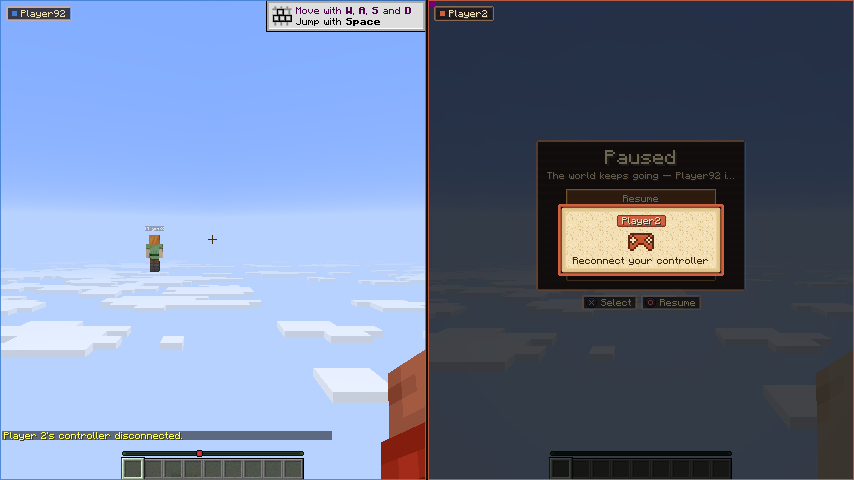
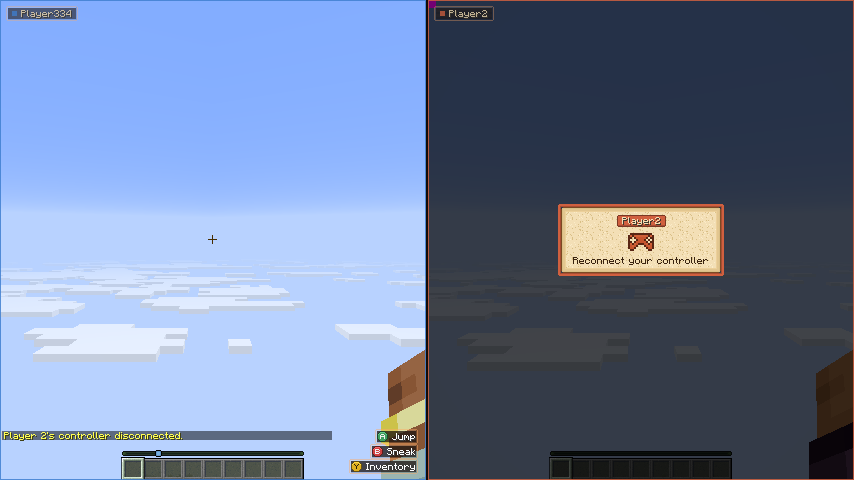
fix: reconnect card and wrapping pause status

diff --git a/fabric/src/client/java/dev/hearthside/fabric/client/menu/PauseMenuScreen.java b/fabric/src/client/java/dev/hearthside/fabric/client/menu/PauseMenuScreen.java
@@ -25,6 +25,7 @@ import net.minecraft.client.gui.screens.options.OptionsScreen;
 import net.minecraft.client.multiplayer.ClientLevel;
 import net.minecraft.network.chat.CommonComponents;
 import net.minecraft.network.chat.Component;
+import net.minecraft.util.FormattedCharSequence;
 
 /**
  * Each player's own pause menu during split-screen (Spec E section 3.1), in their own game: Ember glass over their view
@@ -44,8 +45,16 @@ public final class PauseMenuScreen extends Screen implements PadScreen {
 	private static final int HUD = 30;
 	/** A guest's focus outline: the ember accent (their game doesn't know their profile's colour). */
 	private static final int EMBER = 0xFFB35A;
+	/** The status line's line height: up to three names (16 characters each) wrap onto more lines, never cut. */
+	private static final int STATUS_LINE = 10;
+	private static final boolean E2E = "1".equals(System.getenv("HEARTHSIDE_E2E_PATTERN"));
 	/** What every pause menu in this game says under "Paused": who is still playing, or that the world is frozen. */
 	private static volatile String status = "";
+	/**
+	 * A guest's controller is away (between the host's PAUSE and RESUME): the menu draws only its dim, so the reconnect
+	 * card player 1's game draws over this view is the only thing asking anything (Spec E section 3.3). Render thread.
+	 */
+	private static boolean controllerAway;
 	/** Vanilla's pause screen opened by Game menu…, and the menu that closing it to play goes back to. Render thread. */
 	private static WeakReference<PauseScreen> gameMenu = new WeakReference<>(null);
 	private static WeakReference<PauseMenuScreen> gameMenuFrom = new WeakReference<>(null);
@@ -61,6 +70,11 @@ public final class PauseMenuScreen extends Screen implements PadScreen {
 	private int lastButtons = -1;
 	private int panelX, panelY, panelW, panelH, statusY;
 	private boolean bigHeading;
+	/** The status line as laid out (wrapped to the panel), and the status it was laid out for. Render thread. */
+	private List<String> statusLines = List.of();
+	private String laidOutFor = "";
+	/** The view was too small for every line of the status: its last line is cut short. */
+	private boolean statusTruncated;
 	private PadHints hints;
 	/** A controller's A is pressing an entry right now (not the mouse or the PC keyboard). */
 	private boolean padPressing;
@@ -97,6 +111,15 @@ public final class PauseMenuScreen extends Screen implements PadScreen {
 	/** The status line under "Paused" for every pause menu in this game, the open one and later ones ("" for none). */
 	public static void setStatus(String line) {
 		status = line == null ? "" : line;
+	}
+
+	/**
+	 * A guest's controller went away (the host's PAUSE) or came back or was taken over (its RESUME): while away, any
+	 * pause menu in this game shows only its dim, and a menu still open when it comes back shows again as it was.
+	 * Render thread.
+	 */
+	public static void setControllerAway(boolean away) {
+		controllerAway = away;
 	}
 
 	/**
@@ -151,34 +174,86 @@ public final class PauseMenuScreen extends Screen implements PadScreen {
 		nav = new MenuNav();
 		lastButtons = -1;
 		buttons.clear();
-		// The panel with its hints under it, centred above the hotbar (which stays visible through the dim).
-		int room = height - HUD - 2 * MARGIN;
-		bigHeading = blockHeight(true, GAP) <= room;
-		int gap = bigHeading || blockHeight(false, GAP) <= room ? GAP : 2;
-		int heading = bigHeading ? 18 : 9;
-		int column = entries.size() * BUTTON_H + (entries.size() - 1) * gap;
-		panelW = Math.min(BUTTON_W + 2 * PAD + 40, width - 2 * MARGIN);
-		panelH = PAD + heading + 4 + 9 + 8 + column + PAD;
-		panelX = (width - panelW) / 2;
-		panelY = Math.max(MARGIN, MARGIN + (room - blockHeight(bigHeading, gap)) / 2);
-		statusY = panelY + PAD + heading + 4;
-		int buttonW = Math.min(BUTTON_W, panelW - 2 * PAD);
-		int y = statusY + 9 + 8;
 		for (Entry entry : entries) {
-			GlassButton button = new GlassButton((width - buttonW) / 2, y, buttonW, BUTTON_H, entry.label(), b -> choose(entry));
+			GlassButton button = new GlassButton(0, 0, BUTTON_W, BUTTON_H, entry.label(), b -> choose(entry));
 			button.active = entry.active();
 			buttons.add(addRenderableWidget(button));
-			y += BUTTON_H + gap;
 		}
 		// Its own hints: Minecraft's screens get ButtonGuideRenderer's, Hearthside's draw their own.
 		hints = new PadHints(this, RESUME, this::resume);
-		hints.addTo(this::addRenderableWidget, width / 2, panelY + panelH + HINT_GAP);
+		hints.addTo(this::addRenderableWidget, width / 2, 0);
+		layout();
 	}
 
-	/** The panel and its hints, with the heading at twice the font's size or its own, and this gap between buttons. */
-	private int blockHeight(boolean big, int gap) {
+	/**
+	 * Lays the panel out for the status line it shows now, wrapped to the panel in as many lines as it needs (one is
+	 * always kept for it): the panel with its hints under it, centred above the hotbar (which stays visible through the
+	 * dim). Run again whenever the status line changes, moving the buttons and hints without touching the focus. Only a
+	 * view too small for every line cuts the last one short.
+	 */
+	private void layout() {
+		laidOutFor = status;
+		panelW = Math.min(BUTTON_W + 2 * PAD + 40, width - 2 * MARGIN);
+		int room = height - HUD - 2 * MARGIN;
+		List<String> lines = new ArrayList<>();
+		if (!status.isEmpty()) {
+			for (FormattedCharSequence line : font.split(Component.literal(status), panelW - 2 * PAD)) {
+				StringBuilder text = new StringBuilder();
+				line.accept((index, style, codePoint) -> {
+					text.appendCodePoint(codePoint);
+					return true;
+				});
+				lines.add(text.toString());
+			}
+		}
+		int fit = Math.max(1, (room - blockHeight(false, 2, 0)) / STATUS_LINE);
+		statusTruncated = lines.size() > fit;
+		if (statusTruncated) {
+			lines = new ArrayList<>(lines.subList(0, fit));
+			String last = lines.getLast();
+			lines.set(fit - 1, font.plainSubstrByWidth(last, panelW - 2 * PAD - font.width("…")) + "…");
+		}
+		statusLines = List.copyOf(lines);
+		int n = Math.max(1, lines.size());
+		bigHeading = blockHeight(true, GAP, n) <= room;
+		int gap = bigHeading || blockHeight(false, GAP, n) <= room ? GAP : 2;
+		int heading = bigHeading ? 18 : 9;
 		int column = entries.size() * BUTTON_H + (entries.size() - 1) * gap;
-		return PAD + (big ? 18 : 9) + 4 + 9 + 8 + column + PAD + HINT_GAP + HintChip.HEIGHT;
+		panelH = PAD + heading + 4 + statusHeight(n) + 8 + column + PAD;
+		panelX = (width - panelW) / 2;
+		panelY = Math.max(MARGIN, MARGIN + (room - blockHeight(bigHeading, gap, n)) / 2);
+		statusY = panelY + PAD + heading + 4;
+		int buttonW = Math.min(BUTTON_W, panelW - 2 * PAD);
+		int y = statusY + statusHeight(n) + 8;
+		for (GlassButton button : buttons) {
+			button.setRectangle(buttonW, BUTTON_H, (width - buttonW) / 2, y);
+			y += BUTTON_H + gap;
+		}
+		hints.place(width / 2, panelY + panelH + HINT_GAP);
+		if (E2E) {
+			HearthsideMod.LOGGER.info("Hearthside pause status lines={} truncated={} drawn={}", statusLines.size(),
+					statusTruncated, String.join("|", statusLines));
+		}
+	}
+
+	/** The status line's height in {@code lines} lines (one line still takes a line's room when it's empty). */
+	private static int statusHeight(int lines) {
+		return Math.max(1, lines) * STATUS_LINE - 1;
+	}
+
+	/**
+	 * The panel and its hints, with the heading at twice the font's size or its own, this gap between buttons and the
+	 * status in this many lines.
+	 */
+	private int blockHeight(boolean big, int gap, int statusLines) {
+		int column = entries.size() * BUTTON_H + (entries.size() - 1) * gap;
+		int status = statusLines == 0 ? -1 : statusHeight(statusLines);
+		return PAD + (big ? 18 : 9) + 4 + status + 8 + column + PAD + HINT_GAP + HintChip.HEIGHT;
+	}
+
+	/** E2E: the open pause menu's status line as drawn, line by line, or null when none is open. Render thread. */
+	public static List<String> e2eDrawnStatus(Minecraft minecraft) {
+		return minecraft.gui.screen() instanceof PauseMenuScreen menu ? menu.statusLines : null;
 	}
 
 	/** Resume, whenever the menu opens or comes back (plan P-2): the D-pad always starts from the top. */
@@ -275,6 +350,12 @@ public final class PauseMenuScreen extends Screen implements PadScreen {
 	public void extractBackground(GuiGraphicsExtractor g, int mouseX, int mouseY, float partialTick) {
 		// The world stays visible through the glass, a little dimmed.
 		g.fill(0, 0, width, height, 0x60000000);
+		if (controllerAway) {
+			return; // only the reconnect card over this view asks anything now
+		}
+		if (!status.equals(laidOutFor)) {
+			layout(); // the host's word changed while the menu was open: the panel fits the new line
+		}
 		// Backed, as the on-screen keyboard is, so the buttons stay readable over a bright world (and the crosshair stays
 		// out of the panel).
 		g.fill(panelX + 2, panelY + 2, panelX + panelW - 2, panelY + panelH - 2, 0xD8201410);
@@ -285,18 +366,18 @@ public final class PauseMenuScreen extends Screen implements PadScreen {
 		} else {
 			HearthDraw.labelCentred(g, font, title, width / 2, headingY, HearthDraw.CREAM);
 		}
-		String line = status;
-		if (!line.isEmpty()) {
-			String fitted = font.plainSubstrByWidth(line, panelW - 2 * PAD);
-			if (fitted.length() < line.length()) {
-				fitted = font.plainSubstrByWidth(line, panelW - 2 * PAD - font.width("…")) + "…";
-			}
-			HearthDraw.labelCentred(g, font, Component.literal(fitted), width / 2, statusY, 0xFFD8C4A0);
+		int y = statusY;
+		for (String line : statusLines) {
+			HearthDraw.labelCentred(g, font, Component.literal(line), width / 2, y, 0xFFD8C4A0);
+			y += STATUS_LINE;
 		}
 	}
 
 	@Override
 	public void extractRenderState(GuiGraphicsExtractor g, int mouseX, int mouseY, float partialTick) {
+		if (controllerAway) {
+			return; // no entries and no hints for a controller that isn't there
+		}
 		hints.update();
 		if (PadHints.controllerDriven()) {
 			// The controller's selection is the only one lit: a guest's game has no mouse (the OS arrow is player 1's,

diff --git a/fabric/src/client/java/dev/hearthside/fabric/client/dev/E2eDriver.java b/fabric/src/client/java/dev/hearthside/fabric/client/dev/E2eDriver.java
@@ -4271,6 +4271,41 @@ public final class E2eDriver {
 		return asked ? state.completeOnTimeout("none", 2, TimeUnit.SECONDS).get() : "none";
 	}
 
+	/** Whether a menu's drawn status lines are {@code expected} whole: every word there, nothing cut short. */
+	private static boolean wholeStatus(List<String> drawn, String expected) {
+		return drawn != null && String.join(" ", drawn).replace(" ", "").toLowerCase(Locale.ROOT)
+				.equals(expected.replace(" ", "").toLowerCase(Locale.ROOT));
+	}
+
+	/** Player 1's open pause menu draws {@code expected} as its status, whole (wrapped as it needs, never cut). */
+	private void waitForMenuStatusDrawnWhole(String expected) throws Exception {
+		List<String>[] drawn = new List[1];
+		try {
+			waitFor("player 1's menu draws \"" + expected + "\" whole", Duration.ofSeconds(3), () -> {
+				drawn[0] = onRender(() -> dev.hearthside.fabric.client.menu.PauseMenuScreen.e2eDrawnStatus(minecraft));
+				return wholeStatus(drawn[0], expected);
+			});
+		} catch (AssertionError e) {
+			throw new AssertionError(e.getMessage() + " (drawn " + drawn[0] + ")");
+		}
+	}
+
+	/**
+	 * A guest's pause-menu layouts logged after its {@code skip} first ones, each as its drawn lines: only those not cut
+	 * short (the satellite logs them in E2E runs).
+	 */
+	private static List<List<String>> drawnStatuses(String satelliteLog, int skip) {
+		Matcher m = Pattern.compile("hearthside pause status lines=\\d+ truncated=(true|false) drawn=([^\\r\\n]*)")
+				.matcher(satelliteLog);
+		List<List<String>> layouts = new ArrayList<>();
+		for (int n = 0; m.find(); n++) {
+			if (n >= skip && m.group(1).equals("false")) {
+				layouts.add(List.of(m.group(2).split("\\|")));
+			}
+		}
+		return layouts;
+	}
+
 	/** The open screen's narration, which carries the pause menu's status line. Render thread. */
 	private String narration() {
 		Screen screen = minecraft.gui.screen();
@@ -4302,6 +4337,22 @@ public final class E2eDriver {
 			if (!sound) {
 				log("   no sound device: N3's sound checks are skipped");
 			}
+			// Player2 paused while player 1 plays: their menu's status names player 1 in full, wrapped, never cut short.
+			String host = minecraft.getUser().getName();
+			int statusLines = count("hearthside pause status lines=");
+			int ownPaused = count("hearthside pause state paused");
+			press(102, PadButton.START);
+			waitFor("Player2's game says it's paused", Duration.ofSeconds(10),
+					() -> count("hearthside pause state paused") > ownPaused);
+			String guestLine = "The world keeps going — " + host + " is still playing";
+			waitFor("Player2's menu laid out for \"" + guestLine + "\"", Duration.ofSeconds(10),
+					() -> drawnStatuses(satelliteLog(), statusLines).stream().anyMatch(d -> wholeStatus(d, guestLine)));
+			windowShot("status-line");
+			int ownPlaying = count("hearthside pause state playing");
+			press(102, PadButton.B);
+			waitFor("Player2's game says it's playing", Duration.ofSeconds(10),
+					() -> count("hearthside pause state playing") > ownPlaying);
+
 			press(PICKING_PAD, PadButton.A);
 			press(PICKING_PAD, PadButton.A);
 			waitFor("a newcomer choosing a profile", Duration.ofSeconds(10), () -> onRender(() -> card(2) != null));
@@ -4320,6 +4371,7 @@ public final class E2eDriver {
 					"player 1's game logs that Player2 is still playing");
 			check(onRender(this::narration).contains("The world keeps going — Player2 is still playing"),
 					"player 1's menu says Player2 is still playing (got \"" + onRender(this::narration) + "\")");
+			waitForMenuStatusDrawnWhole("The world keeps going — Player2 is still playing");
 			if (sound) {
 				String state = soundState(probe);
 				check(state.equals("playing"), "player 1's game's sounds play on while the world runs (got " + state + ")");
@@ -4338,6 +4390,7 @@ public final class E2eDriver {
 			check(hostLogSince(mark).contains("hearthside world frozen"), "player 1's game logs the world frozen");
 			check(onRender(this::narration).contains("Everyone's paused — the world is frozen"),
 					"player 1's menu says the world is frozen (got \"" + onRender(this::narration) + "\")");
+			waitForMenuStatusDrawnWhole("Everyone's paused — the world is frozen");
 			if (sound) {
 				String state = soundState(probe);
 				check(state.equals("paused"), "player 1's game's sounds pause with the world (got " + state + ")");

diff --git a/fabric/src/client/java/dev/hearthside/fabric/client/satellite/SatelliteBoot.java b/fabric/src/client/java/dev/hearthside/fabric/client/satellite/SatelliteBoot.java
@@ -142,6 +142,7 @@ public final class SatelliteBoot {
 		if (wasInWorld && !inWorld) {
 			pauseLine = "";
 			PauseMenuScreen.setStatus("");
+			PauseMenuScreen.setControllerAway(false);
 		}
 		wasInWorld = inWorld;
 		ControlConnection connection = control;
@@ -226,6 +227,7 @@ public final class SatelliteBoot {
 			case ControlMessage.Lifecycle m when m.command() == LifecycleCommand.PAUSE -> minecraft.execute(() -> {
 				HearthsideMod.LOGGER.info("Hearthside satellite paused (controller disconnected)");
 				applier.release();
+				PauseMenuScreen.setControllerAway(true);
 				Screen before = minecraft.gui.screen();
 				minecraft.pauseGame(false);
 				Screen opened = minecraft.gui.screen();
@@ -236,6 +238,7 @@ public final class SatelliteBoot {
 			case ControlMessage.Lifecycle m when m.command() == LifecycleCommand.RESUME -> minecraft.execute(() -> {
 				HearthsideMod.LOGGER.info("Hearthside satellite resumed (controller reconnected)");
 				// Only the menu the drop opened, if it's still the one showing: one the player opened is theirs to close.
+				PauseMenuScreen.setControllerAway(false);
 				Screen opened = pausedFor;
 				pausedFor = null;
 				if (opened != null && minecraft.gui.screen() == opened) {

diff --git a/fabric/src/client/java/dev/hearthside/fabric/client/menu/PadHints.java b/fabric/src/client/java/dev/hearthside/fabric/client/menu/PadHints.java
@@ -31,13 +31,18 @@ final class PadHints {
 
 	/** Lays the row out centred on {@code centreX} with its top at {@code y}, adding each chip with {@code add}. */
 	void addTo(Consumer<HintChip> add, int centreX, int y) {
+		place(centreX, y);
+		chips.forEach(add);
+		update();
+	}
+
+	/** Moves the row: centred on {@code centreX}, its top at {@code y}. */
+	void place(int centreX, int y) {
 		int x = centreX - width() / 2;
 		for (HintChip chip : chips) {
 			chip.setPosition(x, y);
 			x += chip.getWidth() + GAP;
-			add.accept(chip);
 		}
-		update();
 	}
 
 	private int width() {
